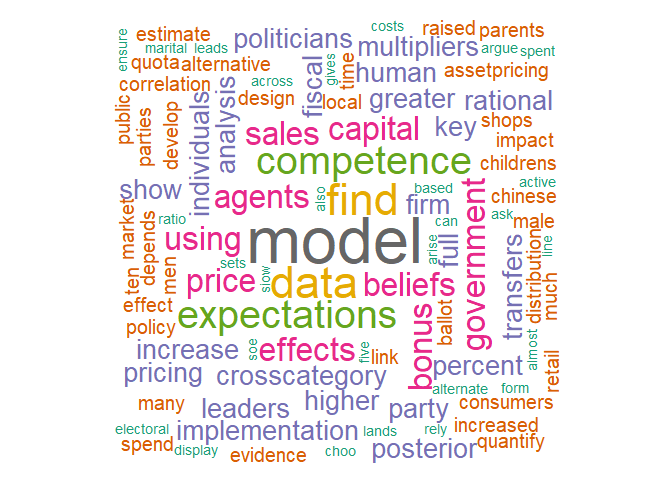
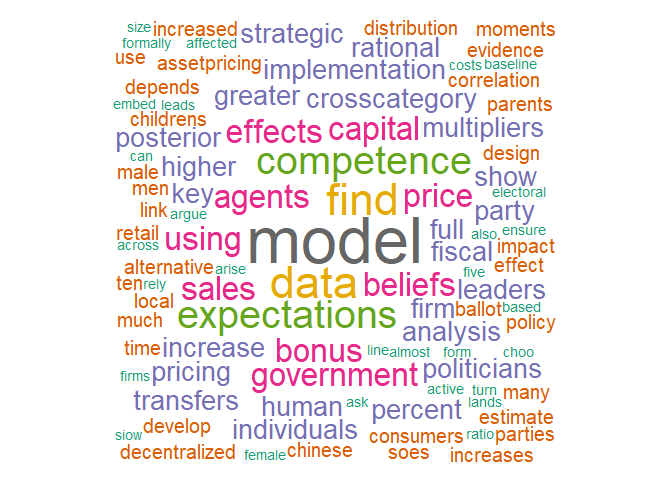
Add wordcloud by years showcase in aer-articles.rmd

Changed region(s): [[0.1562, 0.0312, 0.8438, 0.9688], [0.4688, 0.375, 0.5, 0.4375]]

diff --git a/R_sandbox/aer-articles.md b/R_sandbox/aer-articles.md
@@ -94,16 +94,13 @@ print(issue.urls$value) # since issue.urls is a data.frame, need to extract $val
 but note that they are all *relative* (to the AER website home) URLs. Thus, to get the correct URLs, `https://www.aeaweb.org/` has to be appended in front. In R this can be done by using `paste0`, which can be used for vectorized strings too.
 
 ``` r
-issue.urls <- paste0("https://www.aeaweb.org/", issue.urls$value)
+issue.urls <- paste0("https://www.aeaweb.org", issue.urls$value)
 print(head(issue.urls))
 ```
 
-    ## [1] "https://www.aeaweb.org//issues/526"
-    ## [2] "https://www.aeaweb.org//issues/523"
-    ## [3] "https://www.aeaweb.org//issues/519"
-    ## [4] "https://www.aeaweb.org//issues/517"
-    ## [5] "https://www.aeaweb.org//issues/513"
-    ## [6] "https://www.aeaweb.org//issues/510"
+    ## [1] "https://www.aeaweb.org/issues/526" "https://www.aeaweb.org/issues/523"
+    ## [3] "https://www.aeaweb.org/issues/519" "https://www.aeaweb.org/issues/517"
+    ## [5] "https://www.aeaweb.org/issues/513" "https://www.aeaweb.org/issues/510"
 
 ### Extracting years of publication
 
@@ -146,13 +143,13 @@ issue.df <- data.frame(issue = issue.urls, year = issue.years)
 print(head(issue.df))
 ```
 
-    ##                                issue year
-    ## 1 https://www.aeaweb.org//issues/526 2018
-    ## 2 https://www.aeaweb.org//issues/523 2018
-    ## 3 https://www.aeaweb.org//issues/519 2018
-    ## 4 https://www.aeaweb.org//issues/517 2018
-    ## 5 https://www.aeaweb.org//issues/513 2018
-    ## 6 https://www.aeaweb.org//issues/510 2018
+    ##                               issue year
+    ## 1 https://www.aeaweb.org/issues/526 2018
+    ## 2 https://www.aeaweb.org/issues/523 2018
+    ## 3 https://www.aeaweb.org/issues/519 2018
+    ## 4 https://www.aeaweb.org/issues/517 2018
+    ## 5 https://www.aeaweb.org/issues/513 2018
+    ## 6 https://www.aeaweb.org/issues/510 2018
 
 Extracting article names and URLs from a single issue
 -----------------------------------------------------
@@ -287,7 +284,6 @@ To do so, construct a function that returns the abstract article given an articl
 
 ``` r
 GetAbstract <- function (article.url) {
-  Sys.sleep(0.5) # wait for one half second to prevent overloading
   (read_html(article.url) %>%
     html_nodes("section section") %>%
     html_text())[3]
@@ -469,8 +465,24 @@ And the word cloud:
 ``` r
 set.seed(1234)
 wordcloud(words = freq.table$word, freq = freq.table$freq, min.freq = 1,
-          max.words=200, random.order=FALSE, rot.per=0.35, 
+          max.words=200, random.order=FALSE, rot.per=0.00, 
           colors=brewer.pal(8, "Dark2"))
 ```
 
 ![](aer-articles_files/figure-markdown_github/construct-word-cloud-1.png)
+
+### Extensions
+
+One can combine all the works together above to generate word cloud plots for abstracts by years, instead of a single issue:
+
+Here's one for 2014:
+
+![Wordcloud for 2014](aer-articles_files_aux/figure-markdown_github/wordcloud-2014.png)
+
+One for 2016:
+
+![Wordcloud for 2016](aer-articles_files_aux/figure-markdown_github/wordcloud-2016.png)
+
+One for 2018:
+
+![Wordcloud for 2018](aer-articles_files_aux/figure-markdown_github/wordcloud-2018.png)
